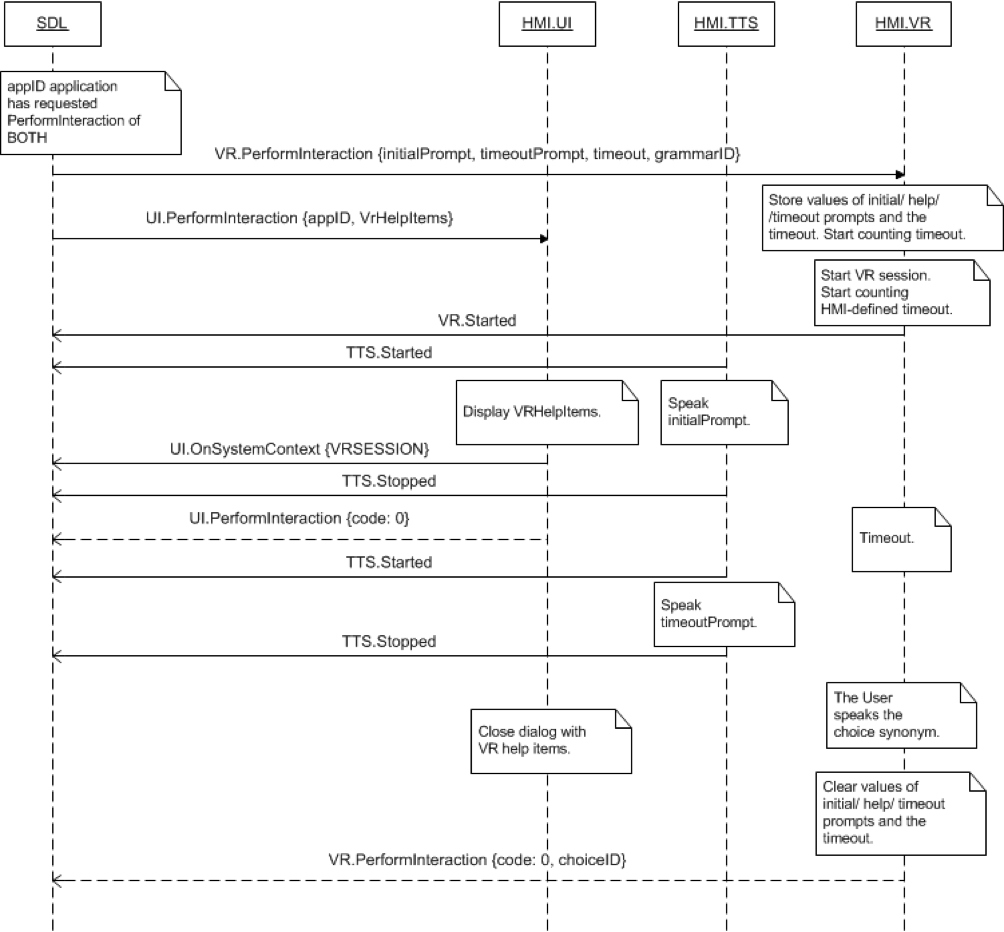
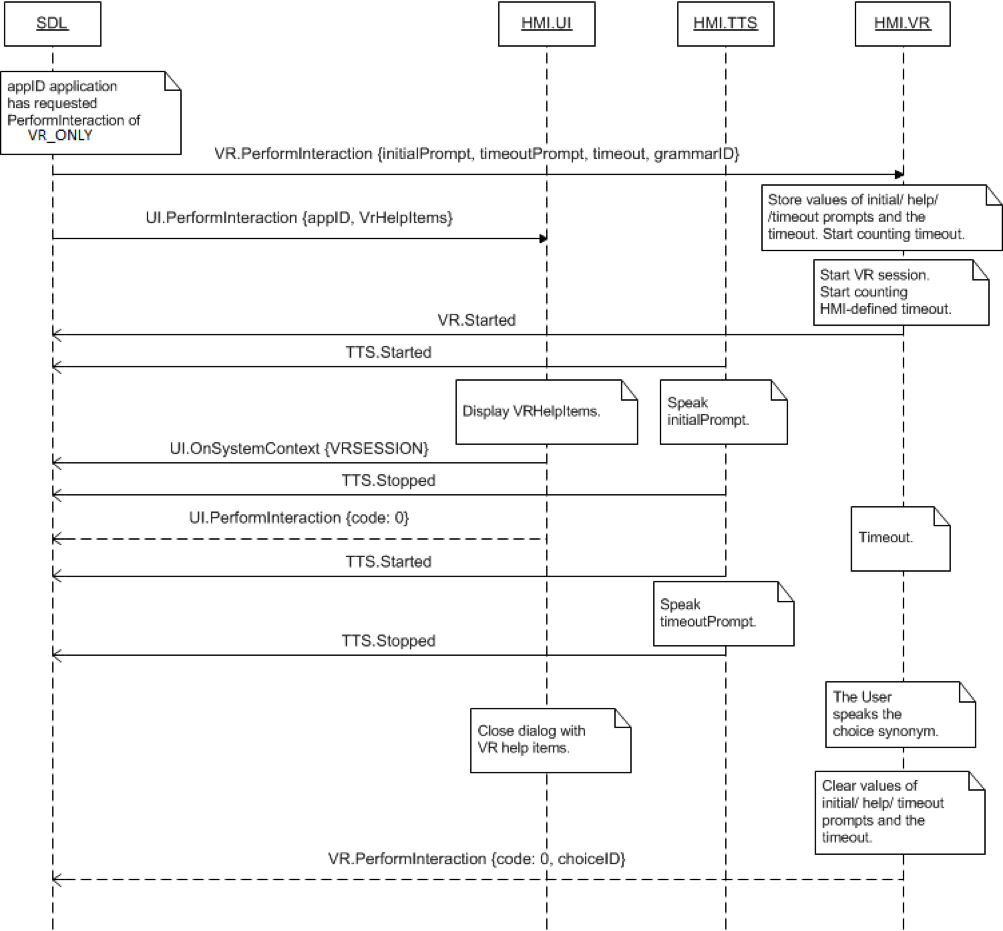
update pi diagrams, fix incorrect label in one, fix typo in another

diff --git a/docs/VR/PerformInteraction/index.md b/docs/VR/PerformInteraction/index.md
@@ -45,7 +45,7 @@ PerformInteraction in Manual Only Mode completed successfully
 
 |||
 PerformInteraction in Both Mode times out
-![PerformInteraction](./assets/PerformInteractionBothTimeout.png)
+![PerformInteraction](./assets/PerformInteractionBoth.png)
 |||
 
 ### JSON Message Examples

diff --git a/docs/UI/PerformInteraction/index.md b/docs/UI/PerformInteraction/index.md
@@ -64,7 +64,7 @@ PerformInteraction Successful with Manual Only
 
 |||
 PerformInteraction Timeout with Both
-![PerformInteraction](./assets/PerformInteractionBothTimeout.png)
+![PerformInteraction](./assets/PerformInteractionBoth.png)
 |||
 
 ### JSON Message Examples
